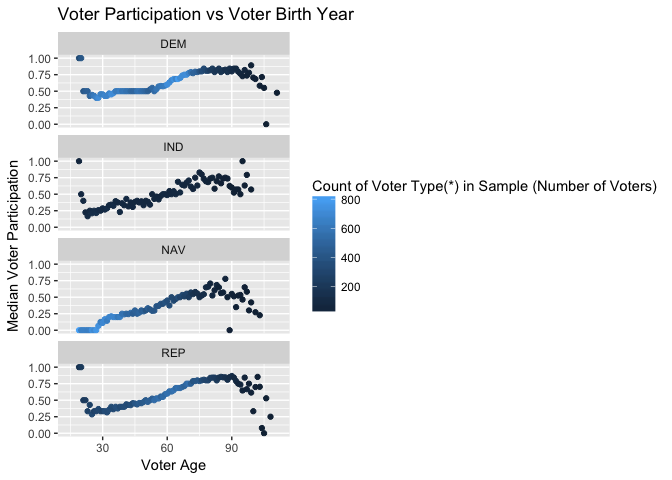
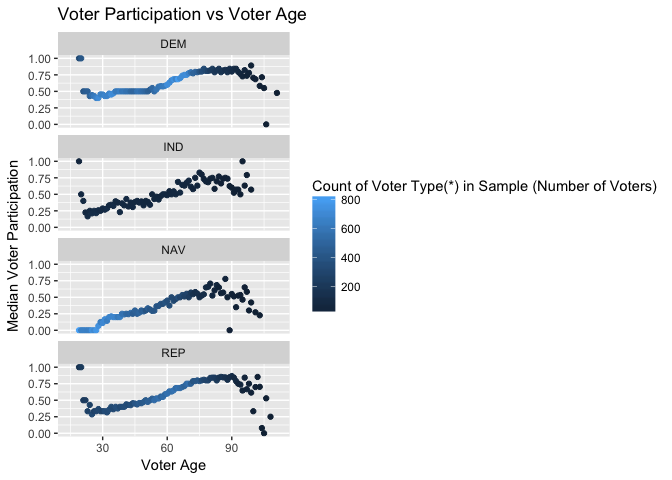
Initial commit

diff --git a/hw_0_data_viz/hw_0_data_viz.md b/hw_0_data_viz/hw_0_data_viz.md
@@ -3,22 +3,9 @@ Visualizing Oregon Vote History
 Kammy Chiu
 Feb 9, 2017
 
-``` r
-knitr::opts_chunk$set(echo = TRUE)
-library(tidyverse)
-```
+### Motivating Question
 
-    ## Loading tidyverse: ggplot2
-    ## Loading tidyverse: tibble
-    ## Loading tidyverse: tidyr
-    ## Loading tidyverse: readr
-    ## Loading tidyverse: purrr
-    ## Loading tidyverse: dplyr
-
-    ## Conflicts with tidy packages ----------------------------------------------
-
-    ## filter(): dplyr, stats
-    ## lag():    dplyr, stats
+From Pol260, I learned that Tea Partiers, typically retired citizens, provide the Republican Party with a consistent voter-base across elections of different scales. I'm interested in seeing whether we can identify consistent Oregon voters, i.e. voters with a high participation rate, by their age within subsets of different political affiliations. I am particularly interested in such relationships within non-affiliated voters and voters affiliated with the Democratic, Republican, or Independent Party. I suspect that older voters affiliated with the Republican Party would have higher participation rates compared to other three groups.
 
 ``` r
 #load data
@@ -36,10 +23,6 @@ vote_particip <- read_csv("http://bit.ly/2l1bIxs")
     ##   p_vote = col_double()
     ## )
 
-### Motivating Question
-
-From Pol260, I learnt that Tea Partiers, typically retired citizens, provide the Republican Party with a consistent voter-base across elections of different scales. I'm interested in seeing whether we can identify consistent Oregon voters, i.e. voters with a high participation rate, by their age within subsets of different political affiliations. I am particularly interested in such relationships within non-affiliated voters and voters affiliated with the Democratic, Republican, or Independent Party. I suspect that older voters affiliated with the Republican Party would have higher participation rates compared to other three groups.
-
 ``` r
 #tidy data
 vote_particip <- vote_particip %>% mutate(birth_year =lubridate::year(vote_particip$BIRTH_DATE)) %>%
@@ -56,13 +39,15 @@ vote_particip %>%
   xlab("Voter Age") +
   ylab("Median Voter Participation") +
   labs(col = "Count of Voter Type(*) in Sample (Number of Voters)") +
-  ggtitle("Voter Participation vs Voter Birth Year") +
+  ggtitle("Voter Participation vs Voter Age") +
   facet_wrap( ~ PARTY_CODE, ncol = 1)
 ```
 
     ## Warning: Removed 4 rows containing missing values (geom_point).
 
 ![](hw_0_data_viz_files/figure-markdown_github/voter%20participation-1.png)
+
+From this plot, I can see that there is a positive correlation between voter age and the median voter participation across all four party affiliations. That is, the older a voter, the more likely they are to vote. Faceting allowed me to map the count of each voter type on to color, which revealed that Democrats born after year 1945 and non-affiliated voters born after 1975 are much more prevalent within the sample. Moreover, seeing the count of each voter type informed my decision in kicking out third-party plots with more erratic median voter participation values across age groups, as our sample is not big enough to provide reliable median values.
 
 ``` r
 #create second plot (across-trends)
@@ -72,18 +57,20 @@ vote_particip %>%
   summarize(med_p = median(p_vote, na.rm = TRUE),
             cnt = n()) %>%
   ggplot(aes(x = age, y = med_p, col = PARTY_CODE)) +
-  geom_point() +
+  geom_line() +
   xlab("Voter Age") +
   ylab("Median Voter Participation") +
   labs(col = "Count of Voter Type(*) in Sample (Number of Voters)") +
-  ggtitle("Voter Participation vs Voter Birth Year")
+  ggtitle("Voter Participation vs Voter Age")
 ```
 
-    ## Warning: Removed 4 rows containing missing values (geom_point).
+    ## Warning: Removed 4 rows containing missing values (geom_path).
 
-![](hw_0_data_viz_files/figure-markdown_github/voter%20participation-2.png)
+![](hw_0_data_viz_files/figure-markdown_github/unnamed-chunk-1-1.png)
 
-### Variables
+Although I hypothesized earlier that older voters affiliated with the Republican Party would have higher participation rates compared to other three groups, this plot shows that voters in higher age ranges affiliated with the Democratic Party have similar participation rates compared to those affiliated with the Republican Party.
+
+### Identifying Types of Variables
 
 1.  Age (categorical)
 
@@ -91,11 +78,13 @@ vote_particip %>%
 
 3.  Party Affiliation (categorical)
 
-4.  Count of each voter type in the sample (numeric). (\*) Voter types are subsets of the sample that contain voters with a particular combination of birth date and party affiliation. For example, voters affiliated with the Republican Party born in 1950 would be counted under the same voter type.
+4.  Count of each voter type in the sample (numerical).
 
-### Visual Cues
+(\*) Voter types are subsets of the sample that contain voters with a particular combination of age and party affiliation. For example, voters affiliated with the Republican Party born in 1950 would be counted under the same voter type.
 
-Position: I decided to map Birth Year on to x-values because explanatory variables are usually in the x-axis by convention. Similarly, I decided to map Median Voter Participation on to y-values because dependent variables are usually in the y-axis by convention.
+### Explaining Visual Cues
+
+Position: I decided to map Age on to x-values because explanatory variables are usually in the x-axis by convention. Similarly, I decided to map Median Voter Participation on to y-values because dependent variables are usually in the y-axis by convention.
 
 Small multiples: I decided to facet the plots by Party Affiliation so that I can compare voter participation across age groups within each party.
 
@@ -103,18 +92,16 @@ Color: After noticing that my plots for smaller third-parties contained more err
 
 ### Geometry
 
-I decided to use points for my scatter plot because I'm interested in looking at the relationship between two variables, birth year and the median vote participation. The scatter plot uses two visual cues, position and direction. Position is the easiest visual cue for people to register. Direction allows people to eyeball the relationship between the two variables. As discussed in the previous section on visual cues, I adhered to Tufte's rule of matching the dimensions of the visual cues to that of my variables.
+I decided to use points for my scatter plot because I'm interested in looking at the relationship between two variables, age and the median vote participation. The scatter plot uses two visual cues, position and direction. Position is the easiest visual cue for people to register. Direction allows people to eyeball the relationship between the two variables. As discussed in the previous section on visual cues, I adhered to Tufte's rule of matching the dimensions of the visual cues to that of my variables.
 
 ### Additional Tweaks
 
 1.  I added a title, axis labels and a label for the saturation key to explain the mappings between variables and visual cues. I added an asterisk next to Voter Type to explain what I mean in the text below. Ideally that information would be in a legend under the graph, but I haven't figured out how to do that.
 
-2.  I decided to plot the median statistic for voter participation rates against birth years instead of voter participation rates against birth dates to avoid over-plotting.
+2.  I decided to plot the median statistic for voter participation rates against age instead of voter participation rates against age to avoid over-plotting.
 
 3.  I stacked the four plots on top of on another in a single column so that the x-axis wouldn't be squished.
 
-### Results
+### Thoughts
 
-From my graphic, I can see that there is a positive correlation between voter age and the median voter participation across all four party affiliations. That is, the older a voter, the more likely they are to vote. Although I hypothesized earlier that older voters affiliated with the Republican Party would have higher participation rates compared to other three groups, what's immediately observable from these plots is that non-affiliated voters born after 1985 have a median voter participation rate of close to 0, considerably lower than the voter participation rates in the other three plots within the same birth-year range. Non-affiliated voters across all birth-years also appear to have a lower median voter participation rate than the other groups. Mapping party affiliation on to color and layering these four plots on top of each other would make comparisons across groups easier. However, faceting allowed me to map the count of each voter type on to color, which revealed that Democrats born after year 1945 and non-affiliated voters born after 1975 are much more prevalent within the sample. Moreover, seeing the count of each voter type informed my decision in kicking out third-party plots with more erratic median voter participation values across age groups, as our sample is not big enough to provide reliable median values.
-
-One improvement that can be easily made is to map voter age instead of voter birth year on to x-positions, as it is more intuitive for people to perceive an increasing age as we move to the right of the x-axis. It would also be interesting to see a regression with party affiliation and age as explanatory variables and voter participation as the dependent variable to identify which voter type votes the most consistently.
+This data exploration excercise shows that party affiliation and age may be powerful explantory variables that explain voter participation trends in a regression analysis.
